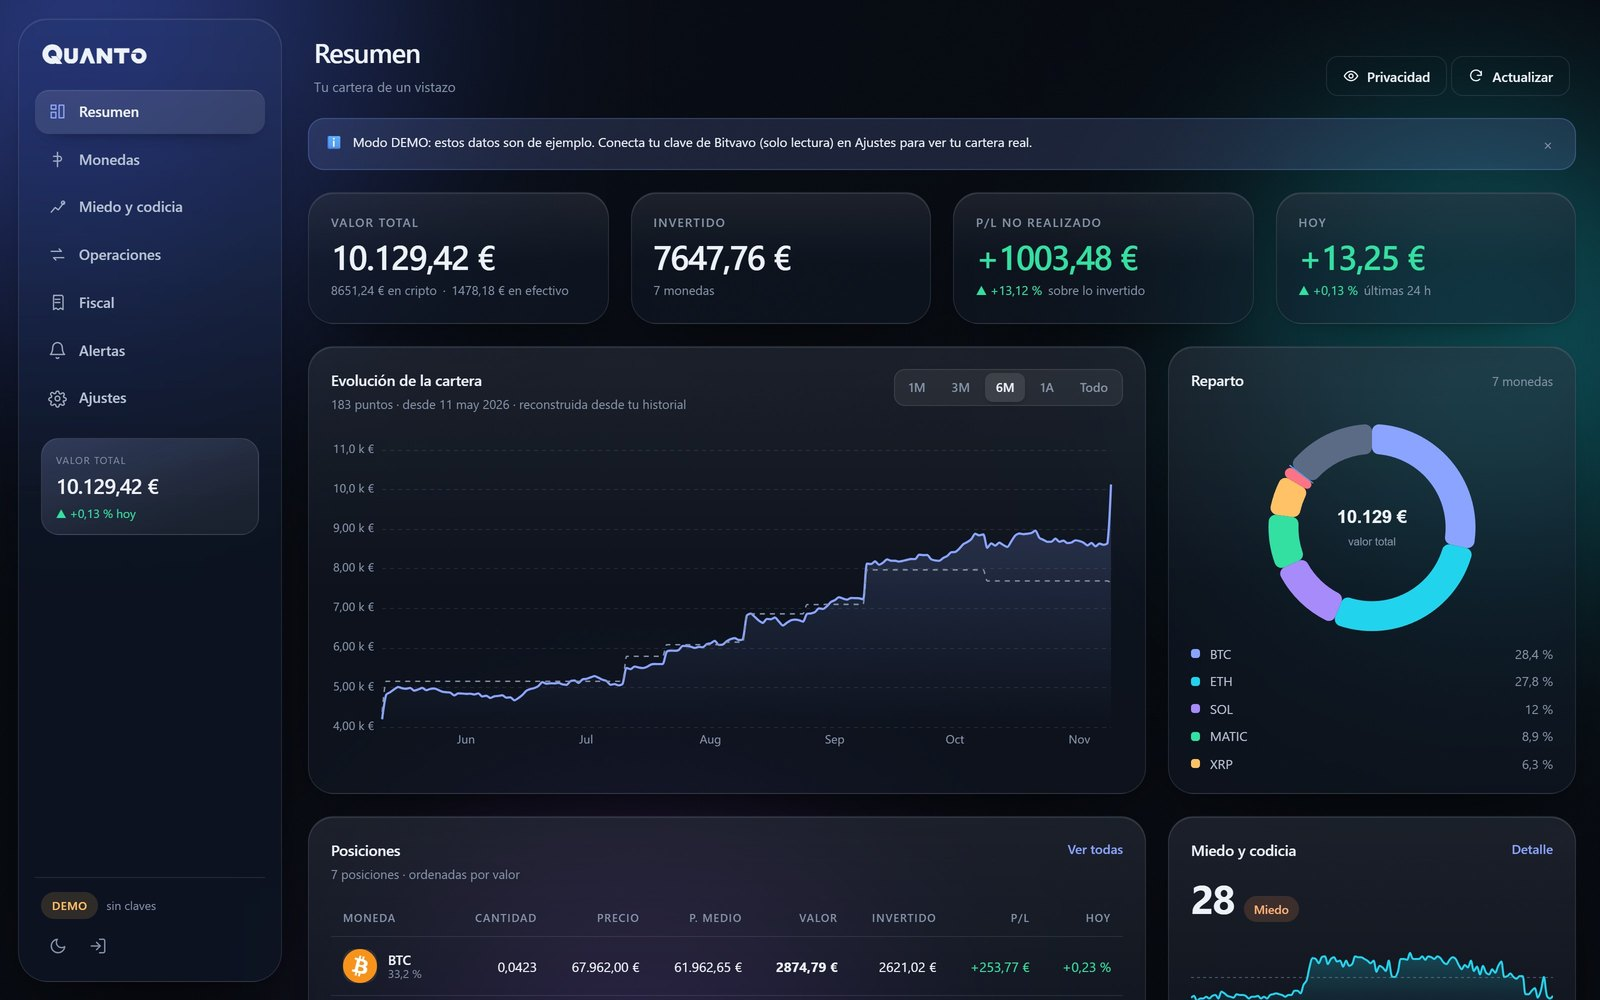
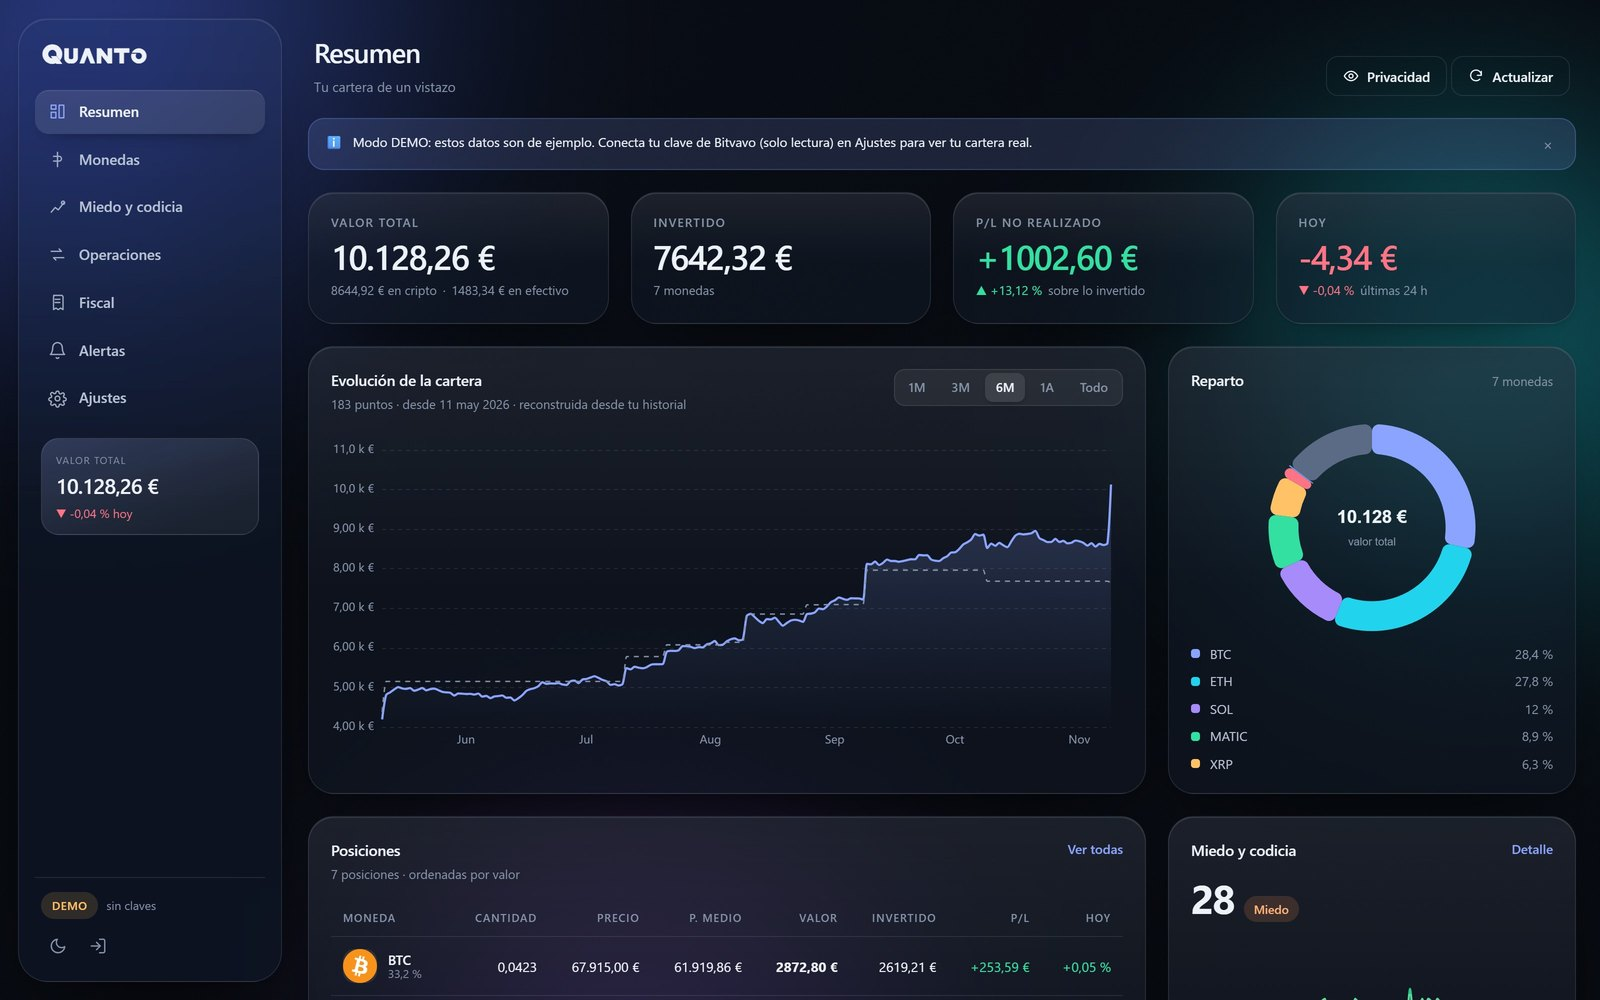
feat: aprovecha la tarjeta de miedo y codicia y rehace las capturas
Tarjeta del resumen: el grafico crece con flex para ocupar el alto de la fila, se anaden 3 cifras (7 dias, 30 dias, media 30 d) y una frase de contexto por tramo. Capturas nuevas con la linea coloreada y la tarjeta actualizada (modo DEMO).

diff --git a/public/app.js b/public/app.js
@@ -666,6 +666,22 @@ function renderFearGreedMini() {
   const label = $('#fg-label');
   label.textContent = fg.classification ? fg.classification.text : fg.label;
   label.className = 'fg-tag ' + fgClass(fg.classification && fg.classification.key);
+
+  const setTxt = (id, txt) => { const el = document.getElementById(id); if (el) el.textContent = txt; };
+  setTxt('fg-mini-week', fg.weekAgo === null || fg.weekAgo === undefined ? '—' : fg.weekAgo);
+  setTxt('fg-mini-month', fg.monthAgo === null || fg.monthAgo === undefined ? '—' : fg.monthAgo);
+  const last30 = fg.series.slice(-30);
+  const avg30 = last30.reduce((a, p) => a + p.value, 0) / (last30.length || 1);
+  setTxt('fg-mini-avg', num(avg30, 0));
+  const notes = {
+    'extreme-fear': 'Pánico vendedor: históricamente, zona de acumulación.',
+    fear: 'Predomina el miedo; precios por debajo de su media reciente.',
+    neutral: 'Mercado en equilibrio, sin excesos claros.',
+    greed: 'Optimismo y entradas de dinero: conviene vigilar.',
+    'extreme-greed': 'Euforia: zona de riesgo, correcciones bruscas.',
+  };
+  setTxt('fg-mini-note', notes[(fg.classification && fg.classification.key) || ''] || '');
+
   const points = fg.series.slice(-120);
   chart('chart-fg-mini', {
     animationDuration: 400,

diff --git a/public/index.html b/public/index.html
@@ -179,7 +179,7 @@
           </div>
         </article>
 
-        <article class="card glass span-4">
+        <article class="card glass span-4 fg-card">
           <header class="card-head">
             <h2>Miedo y codicia</h2>
             <button class="link" data-goto="market">Detalle</button>
@@ -189,7 +189,13 @@
               <strong id="fg-value">—</strong>
               <span id="fg-label" class="fg-tag">—</span>
             </div>
-            <div id="chart-fg-mini" class="chart chart-sm"></div>
+            <div id="chart-fg-mini" class="chart"></div>
+            <div class="fg-stats">
+              <div><span>Hace 7 días</span><strong id="fg-mini-week">—</strong></div>
+              <div><span>Hace 30 días</span><strong id="fg-mini-month">—</strong></div>
+              <div><span>Media 30 d</span><strong id="fg-mini-avg">—</strong></div>
+            </div>
+            <p class="tiny muted" id="fg-mini-note">—</p>
           </div>
         </article>
       </div>

diff --git a/public/style.css b/public/style.css
@@ -337,6 +337,11 @@ html[data-theme="light"] .chips button.is-active { background: #fff; box-shadow:
 
 /* miedo y codicia */
 .fg-mini { display: flex; flex-direction: column; gap: 6px; }
+.fg-card { display: flex; flex-direction: column; }
+.fg-card .fg-mini { flex: 1; min-height: 0; }
+.fg-card #chart-fg-mini { flex: 1 1 auto; height: auto; min-height: 120px; }
+.fg-card .fg-stats { margin-top: 6px; }
+.fg-card #fg-mini-note { margin: 2px 0 0; line-height: 1.45; }
 .fg-mini-value { display: flex; align-items: baseline; gap: 10px; }
 .fg-mini-value strong { font-size: 40px; font-weight: 650; letter-spacing: -.04em; line-height: 1; }
 .fg-tag { font-size: 12px; font-weight: 600; padding: 4px 10px; border-radius: 999px; background: var(--glass-hi); }
